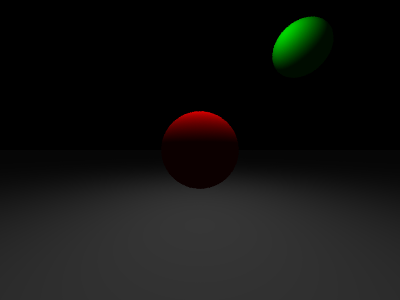
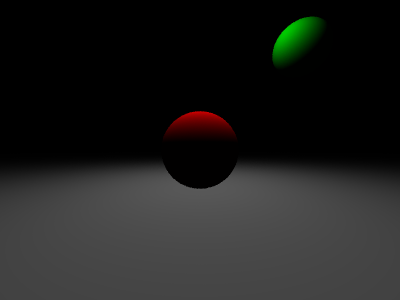
Ajuste nos coeficientes de luz e posicionamento dos objetos

Changed region(s): [[0.0, 0.54, 1.0, 0.9]]

diff --git a/material.py b/material.py
@@ -3,7 +3,7 @@ import utils
 import color as colors
 
 class Material():
-    def __init__(self, color:np.ndarray, diffuse:float, specular:float, shininess:float, ambient:float = 0.05,  debug:bool = False) -> None:
+    def __init__(self, color:np.ndarray, diffuse:float, specular:float, shininess:float, ambient:float = 0.005,  debug:bool = False) -> None:
         self.diffuse = diffuse
         self.specular = specular
         self.ambient = ambient

diff --git a/main.py b/main.py
@@ -22,7 +22,7 @@ def main():
                 material=Material(colors.GREEN, 0.1, 0.5, 2.0, debug=False)
             ),
             Hittable(
-                surface=Plane(np.array([0.0, 1.0, 0.0]), np.array([0.0, 1.0, 0.0])),
+                surface=Plane(np.array([0.0, 0.5, 0.0]), np.array([0.0, 1.0, 0.0])),
                 material=Material(np.array([0.7, 0.7, 0.7]), 0.2, 0.5, 2.0, debug=False)
             )
         ],
